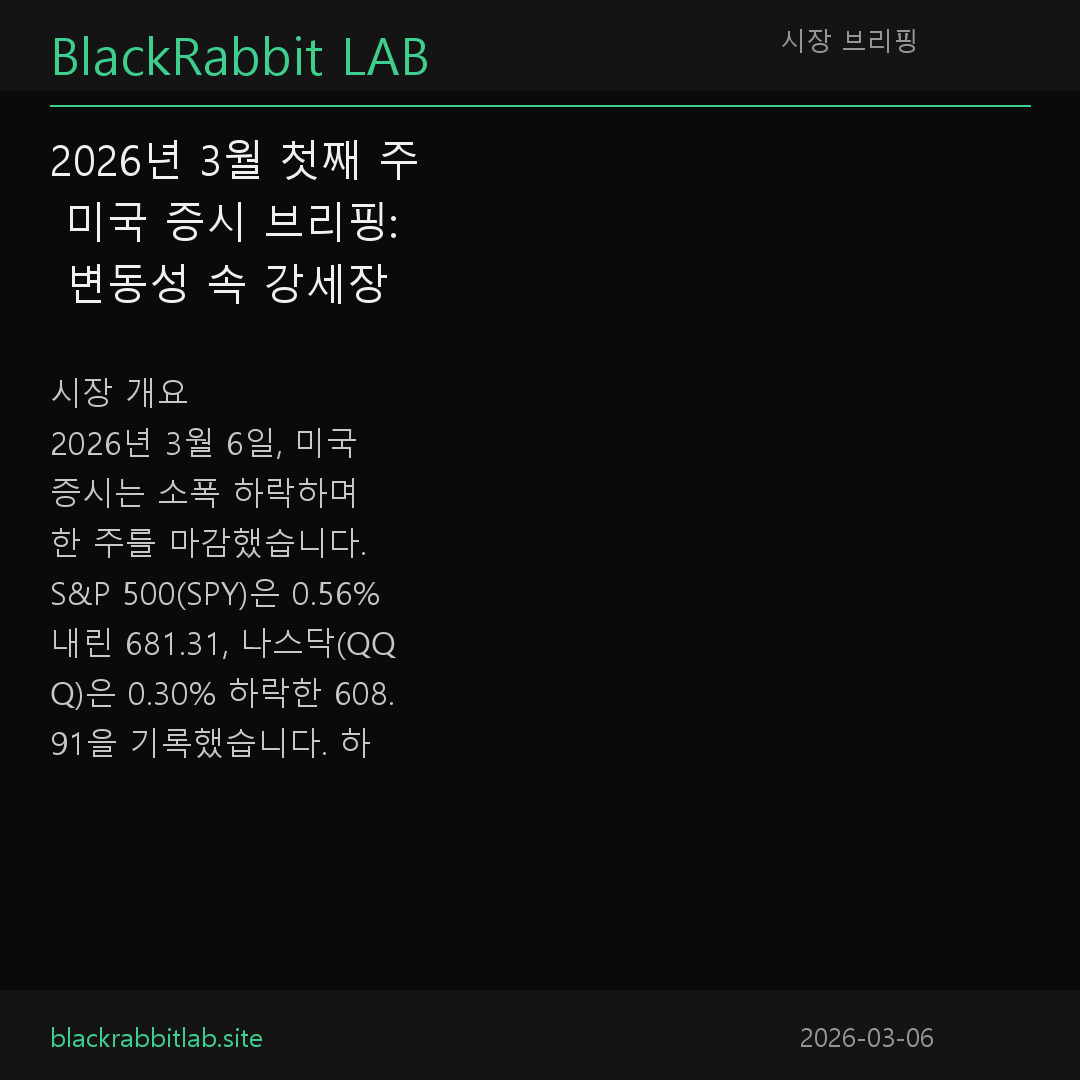
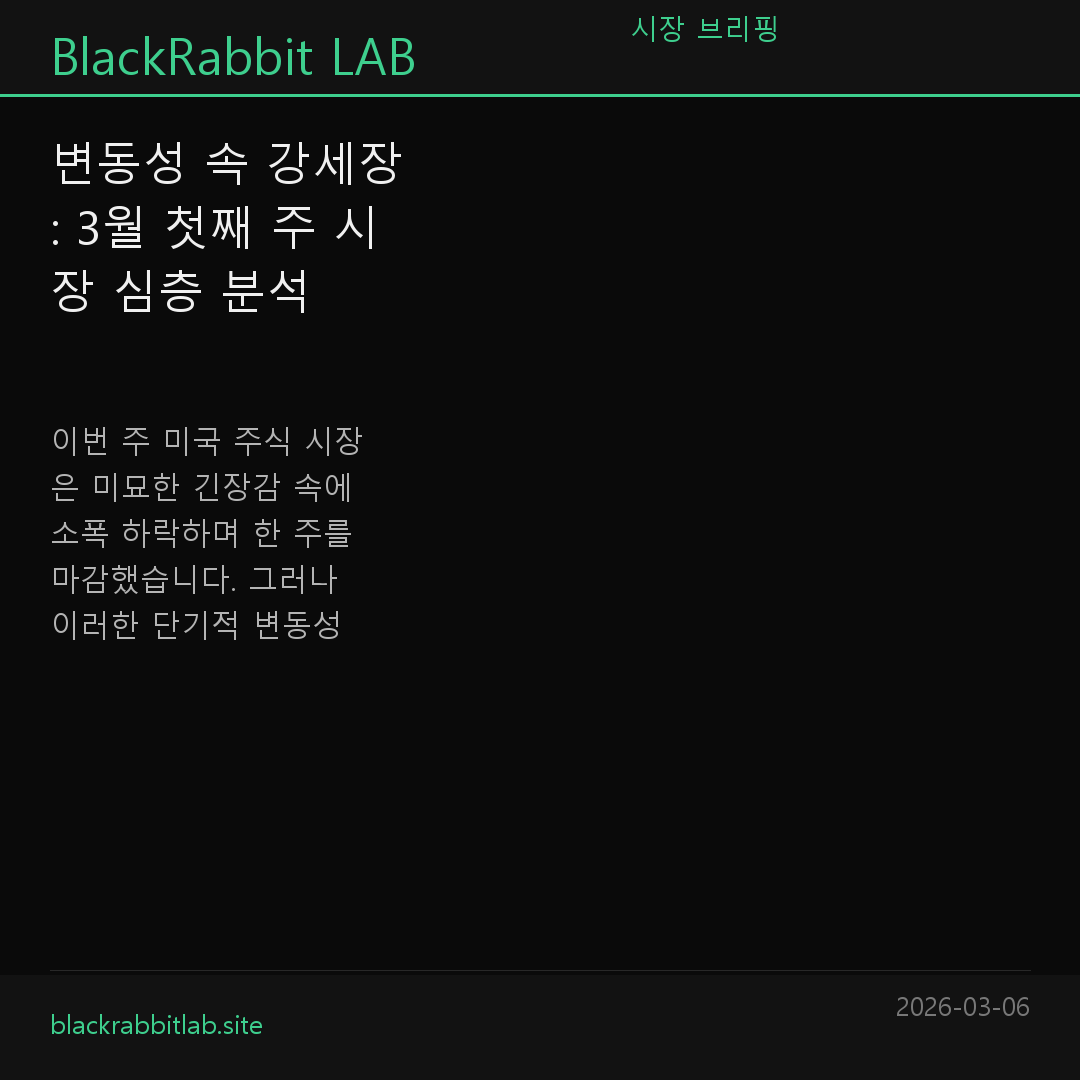
Auto: market — 변동성 속 강세장: 3월 첫째 주 시장 심층 분석

diff --git a/blog/_posts/2026-03-06-market-변동성-속-강세장-3월-첫째-주-시장-심층-분석.md b/blog/_posts/2026-03-06-market-변동성-속-강세장-3월-첫째-주-시장-심층-분석.md
@@ -1,0 +1,49 @@
+---
+layout: post
+title: "변동성 속 강세장: 3월 첫째 주 시장 심층 분석"
+date: 2026-03-06
+categories: [시장분석]
+tags: [주식, 자동매매, BlackRabbitLAB]
+image: https://blackrabbitdeveloper.github.io/assets/images/cards/2026-03-06-market.png
+---
+
+이번 주 미국 주식 시장은 미묘한 긴장감 속에 소폭 하락하며 한 주를 마감했습니다. 그러나 이러한 단기적 변동성 속에서도 AI 분석은 여전히 견고한 강세장 신호를 보내고 있어, 투자자들은 현명한 접근이 필요한 시점입니다.
+
+## 이번 주 시장 요약
+2026년 3월 6일 마감 기준, 미국 주요 지수는 대체로 하락세를 보였습니다. S&P 500 (SPY)은 681.31로 0.56% 하락했으며, 기술주 중심의 NASDAQ 100 (QQQ) 역시 608.91로 0.30% 소폭 하락하며 시장의 전반적인 숨 고르기 양상을 반영했습니다. 이러한 하락세는 최근의 가파른 상승에 대한 자연스러운 차익 실현 압력으로 해석될 수 있습니다.
+
+시장의 심리를 대변하는 VIX 공포지수는 23.75를 기록했습니다. 이는 일반적으로 20 미만을 안정적인 시장으로, 20~30을 '불안' 심리로, 30 이상을 '공포' 심리로 판단하는 기준에 비추어 볼 때, 투자자들 사이에 여전히 일정 수준의 불확실성과 경계심이 존재함을 시사합니다. 하지만 극심한 공포 단계는 아니므로, 시장 참여자들은 상황을 주시하며 신중하게 대응하는 모습입니다.
+
+## 핵심 분석: 레짐별 해석
+현재 시장은 AI 분석에 따르면 71%의 높은 신뢰도로 '강세장(Bull Market)' 레짐에 놓여 있습니다. 이는 이번 주의 소폭 하락에도 불구하고 시장의 근본적인 상승 동력이 여전히 유효하다는 강력한 신호입니다. 강세장 레짐은 기업 실적 개선, 경제 성장 기대감, 그리고 혁신 기술에 대한 지속적인 투자 심리가 복합적으로 작용하며 주식 시장 전반의 가치 평가를 끌어올리는 시기입니다.
+
+과거 유사한 강세장 레짐 사례를 보면, 단기적인 조정이나 숨 고르기는 흔히 나타나는 현상이었습니다. 예를 들어, 2010년대 중반 기술주 주도의 강세장에서도 여러 차례 5~10% 수준의 조정이 있었지만, 이는 결국 더 큰 상승을 위한 건전한 기반을 다지는 과정으로 작용했습니다. 현재 AI가 71%의 신뢰도로 강세장을 지목한다는 것은, 이번 하락이 추세 전환이 아닌 일시적인 변동성일 가능성이 높다는 의미로 해석됩니다. 다만, 신뢰도가 100%가 아닌 만큼, 시장 참여자들은 언제든 레짐 전환 가능성을 염두에 두며 유연한 포트폴리오 전략을 유지해야 할 것입니다. 특히 VIX 지수가 20대 중반에 머무는 상황은 강세장 내부에서도 언제든 변동성이 확대될 수 있음을 경고합니다.
+
+## 섹터별 동향 (추론 기반)
+현재의 강세장 레짐과 VIX 지수를 고려할 때, 다음 섹터들의 동향을 추론해 볼 수 있습니다.
+
+*   **강세 예상 섹터: 기술주 및 성장주 (특히 AI 관련)**
+    비록 이번 주 NASDAQ 100이 소폭 하락했지만, 강세장 레짐의 핵심 동력은 여전히 혁신과 성장에 있습니다. AI 분석이 강세장을 지목한 만큼, 인공지능, 반도체, 클라우드 컴퓨팅 등 미래 성장 동력을 가진 기술 섹터는 단기 조정 이후 다시금 시장을 주도할 가능성이 높습니다. 투자자들은 이들 섹터 내에서 견고한 펀더멘털과 혁신 역량을 갖춘 기업들을 주목해야 합니다.
+
+*   **강세/안정 예상 섹터: 경기 방어적 성장주**
+    VIX 지수가 '불안' 수준에 머무는 상황은 시장의 불확실성이 완전히 해소되지 않았음을 의미합니다. 따라서 헬스케어, 필수 소비재와 같이 경기 변동에 비교적 덜 민감하면서도 꾸준한 성장 동력을 가진 섹터들은 상대적으로 안정적인 흐름을 보이거나, 시장의 불확실성 속에서 피난처 역할을 할 수 있습니다. 이는 강세장 내에서도 포트폴리오의 안정성을 확보하는 데 기여할 것입니다.
+
+*   **약세 가능성 섹터: 고평가된 경기 민감주 (단기적)**
+    일부 경기 민감 섹터나 최근 과도하게 상승했던 섹터는 VIX 지수 상승에 따른 차익 실현 압력과 투자 심리 위축으로 단기적인 조정 국면을 겪을 수 있습니다. 이는 강세장 내 건전한 조정의 일환일 수 있으나, 과도한 레버리지를 사용한 투자는 지양하는 것이 현명합니다.
+
+## 투자자를 위한 체크포인트
+
+*   **이번 주 주목해야 할 리스크 요인 2가지:**
+    1.  **예상치 못한 인플레이션 지표:** 다음 주 발표될 주요 경제 지표(특히 소비자물가지수, 생산자물가지수)가 시장의 예상치를 상회할 경우, 중앙은행의 긴축 기조가 강화될 수 있다는 우려가 재부상하며 시장에 하방 압력을 가할 수 있습니다.
+    2.  **지정학적 긴장 심화:** 글로벌 지정학적 불확실성은 언제든 투자 심리를 위축시키고 변동성을 확대시키는 요인으로 작용할 수 있습니다. 특히 에너지 가격에 영향을 미치는 중동 지역의 동향을 주시해야 합니다.
+
+*   **이번 주 긍정적 신호 2가지:**
+    1.  **AI 분석의 강세장 유지:** AI 모델이 71%의 높은 신뢰도로 강세장을 지목하고 있다는 점은 시장의 근본적인 상승 동력이 여전히 살아있음을 보여주는 강력한 긍정적 신호입니다. 이는 단기 조정이 매수 기회일 수 있음을 시사합니다.
+    2.  **견조한 기업 실적 기대감:** 핵심 성장 동력을 가진 기술 기업들의 견조한 실적 발표는 시장의 밸류에이션 부담을 완화하고, 강세장 레짐을 뒷받침하는 핵심 동력으로 작용할 것입니다.
+
+*   **다음 주 주시해야 할 지표 또는 이벤트:**
+    *   **주요 인플레이션 지표 발표 (CPI, PPI):** 중앙은행의 통화정책 방향을 가늠하는 핵심 지표입니다.
+    *   **연방준비제도(Fed) 위원들의 연설:** 통화정책에 대한 힌트를 얻을 수 있습니다.
+    *   **주요 기업 실적 발표:** 특히 기술 섹터 대형주들의 실적은 시장 전반의 분위기에 큰 영향을 미칩니다.
+
+본 포스트는 정보 제공 목적이며 투자 자문이 아닙니다.
